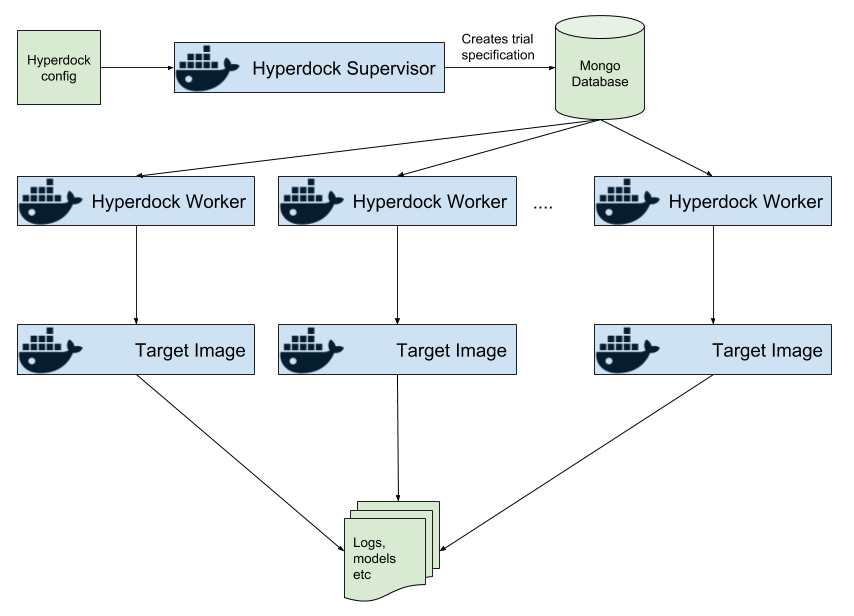
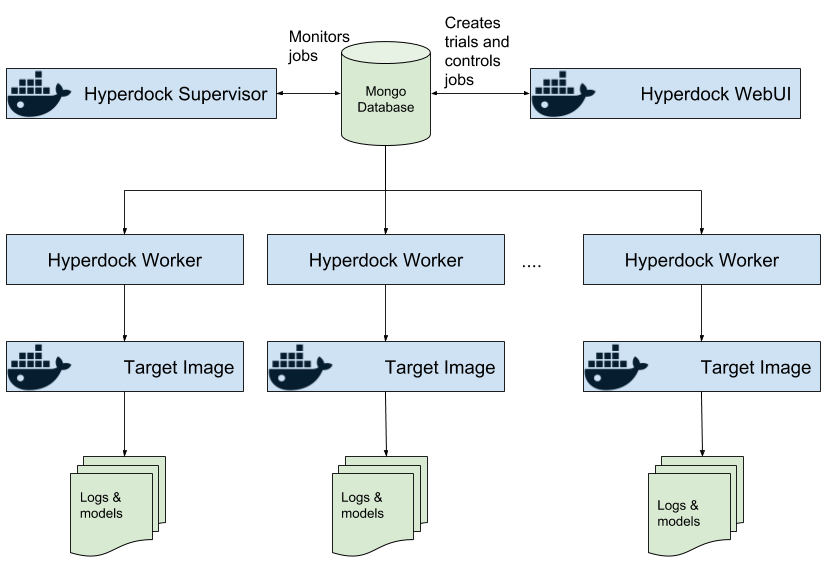
Update README and Docker images for new version #16 #12

diff --git a/README.md b/README.md
@@ -1,76 +1,107 @@
 # Hyperdock
 ![Hyperdock logo](extra/banner.png)
 
-*A simple framework for distributed hyperparameter optimization in Docker. All you need to do is make sure the software you want to optimize can be run in a Docker container.*
+*A simple framework for distributed hyperparameter optimization in Docker.*
 
 ## Philosophy
 
-The main idea of Hyperdock is universal hyperparameter optimization with minimal dependencies (i.e. Docker).
+The main idea of Hyperdock is universal hyperparameter optimization that can optimize a target written in any language or using any framework as long as it can be deployed in a Docker image.
 
 ![Hyperdock diagram](extra/diagram.png)
 
-The **Hyperdock supervisor** reads a configuration module that declares which parameters to optimize and their ranges.
-It then samples from the parameter space and creates a set of parameter combination to be evaluated. These trials are stored in a **mongo database**.
+From the **Hyperdock WebUI** the user can add **trials** that specify the **target image** and the hyperparameter space.
 
-The **Hyperdock workers** fetches parameter combinations from the database and then executes the **target image** with these parameters as to evaluate the combination. This is repeated a specified number of time and then **Hyperdock** returns the best parameter combination. Since the workers talk connect directly with the database they can be distributed as long as they can access any data needed by the **target image**.
+The **Hyperdock Supervisor** then reads the user-defined trial from the Mongo database and creates sets of parameter combination to be evaluated.
+These **jobs** are added to the **work queue**.
 
-The **target image** receives the parameters from the json file `/hyperdock/params.json`. Once the target image has evaluated the parameters it simply writes the loss to file `/hyperdock/loss.json`.
+The **Hyperdock Workers** dequeues jobs from the work queue and then evaluates the **target image** with these parameters. During this the Hyperdock Supervisor monitors the progress of the jobs and the status of the workers.
+
+The Hyperdock Supervisor, Workers and WebUI need not run on the same host. They only need to be able to access the same Mongo database and the workers need to have access to any data required by the target image.
+
+The **target image** receives the parameters from the json file `/hyperdock/params.json`. Once the target image has evaluated the parameters it simply writes the loss to file `/hyperdock/loss.json` with the option of storing important files to `/hyperdock/out`. Logs from the target image are periodically tailed from the workers to the WebUI.
 
 ## Running
 Setting up the Hyperdock system can seem a bit complicated but once it is up it quite easy to use.
 
-#### Mongo database
-To start a Mongo database you can use this simple Docker command or use any normal Mongo instance.
-```bash
-# Starts mongo db, add --bind_ip_all to listen on all interfaces.
-docker run --name hyperdock-mongo -p 27017:27017 -d mongo
-```
+You can either use the built Docker images for Hyperdock or run the parts directly on the host.
 
 #### Supervisor
-Then to start the **Hyperdock supervisor** run the following command:
+To start the Hyperdock Supervisor using the Docker image run the following command:
 ```bash
-# Supervisor
-docker run -it --rm \
-  -v /folderwithconfig/:/app/hyperdock/config:ro \
+docker run -it --rm --name hyperdock-supervisor \
   erikgartner/hyperdock-supervisor:latest \
-  --name trial1 \
-  --image erikgartner/hyperdock-test \
-  --config_module example \
-  --trials 5 \
-  --mongo mongo://172.17.0.1:27017/hyperdock/jobs
+  --mongo mongo://localhost:27017/hyperdock
 ```
 
-Options:
+Or run it on your host with Python 3.6 and install with pip:
+```bash
+pip install hyperdock
+hyperdock-supervisor --mongo mongo://localhost:27017/hyperdock
+```
 
-- `-v /folderwithconfig/:/app/hyperdock/config:ro` points to the folder containing the Hyperdock configuration modules
-- `--name trial1` sets the name of the trial. Each trial should have a unique name
-- `--image erikgartner/hyperdock-test` sets the _target image_
-- `--config_module example` sets which configuration module to use
-- ` --mongo mongo://172.17.0.1:27017/hyperdock/jobs` sets which Mongo database to connect to
-- `--trials 5` sets the maximum number of parameter combination to try out.
+##### Options:
+
+- ` --mongo mongo://localhost:27017/hyperdock` URL to the Mongo database
+
+For full arguments to the supervisor run: `hyperdock-supervisor --help`.
 
 #### Worker
-To start the **Hyperdock worker** run the following command.
+To start the Hyperdock Worker using the Docker image run the following command:
 ```bash
-# Worker
 docker run -it --rm -v /var/run/docker.sock:/var/run/docker.sock \
-  -v $(pwd)/results:/results -e \
-  HYPERDOCK_RESULT_DIR=$(pwd)/results \
-  -e HYPERDOCK_DATA_DIR=$(pwd)/data \
-  -e MONGO_URL=mongo://172.17.0.1:27017/hyperdock \
-  -e HYPERDOCK_RUNTIME="" \
-  -e HYPERDOCK_ENV="[]" \
-  erikgartner/hyperdock-worker:latest
+  -v $(pwd)/results:/results \
+  -v $(pwd)/data:/data:ro \
+  erikgartner/hyperdock-worker:latest \
+  --mongo mongo://localhost:27017/hyperdock
 ```
 
-Options:
+Or run it on your host with Python 3.6 and install with pip:
+```bash
+pip install hyperdock
+hyperdock-worker --mongo mongo://localhost:27017/hyperdock
+```
 
-- `-v $(pwd)/results:/results` sets folder to store the results from target image
-- `-e HYPERDOCK_RESULT_DIR=$(pwd)/results` should be the same as the above
-- `-e HYPERDOCK_DATA_DIR=$(pwd)/data ` the data directory for the target image
-- `-e MONGO_URL=mongo://172.17.0.1:27017/hyperdock` sets the URI to the Mongo database
-- `-e HYPERDOCK_RUNTIME=""` sets the runtime of the target image, e.g. `nvidia`
-- `-e HYPERDOCK_ENV="[]"` sets the environment variables for the target image in Docker argument list format
+##### Options:
+
+- `-v $(pwd)/results:/results` sets folder to store the results from target image to the host
+- `-v $(pwd)/data:/data:ro` sets folder to store the results from target image to the host
+- `-v /var/run/docker.sock:/var/run/docker.sock` gives the Docker image access to control the outer Docker daemon. This is crucial for worker to start new containers
+
+For full arguments to the worker run: `hyperdock-worker --help`.
+
+**Note:** That since the Hyperdock Worker needs to control Docker and access files on the host computer it might be easier to run it directly on the host.
+
+#### WebUI
+To start the Hyperdock WebUI using the Docker image run the following command:
+```bash
+docker run -d --rm --name hyperdock-webui --link hyperdock-mongo \
+  -e ROOT_URL=http://localhost \
+  -e MONGO_URL=mongodb://localhost:27017/hyperdock \
+  -p 3000:3000 \
+  erikgartner/hyperdock-webui:latest
+```
+
+Or run it on your host with Meteor:
+```bash
+# Setup Meteor
+curl https://install.meteor.com/ | sh # Install Meteor
+cd web/
+meteor npm install
+
+# Start WebUI
+export MONGO_URL=mongodb://localhost:27017/hyperdock
+meteor run
+```
+
+##### Options:
+
+- `-e MONGO_URL=mongodb://localhost:27017/hyperdock` sets the Mongo database
+- `-e PORT=3000` the port to listen to
+- `-p 3000:3000` publish the port to the host
+
+For full arguments to the worker run: `hyperdock-worker --help`.
+
+**Note:** That since the Hyperdock Worker needs to control Docker and access files on the host computer it might be easier to run it directly on the host.
 
 #### Target Image
 For the **Target Image** the following volumes are mounted:
@@ -83,25 +114,18 @@ For the **Target Image** the following volumes are mounted:
 
 See the [Dockfile template](docker/Dockerfile.template) for an example.
 
-#### Hyperdock Configuration Module
-The Hyperdock configuration module is a simple Python 3 module that exposes a
-`SPACE` variable containing a [Hyperopt](http://hyperopt.github.io/hyperopt/) parameter space.
-
-See [example.py](hyperdock/config/example.py) for an example.
+#### Mongo database
+To start a Mongo database you can use this simple Docker command or use any normal Mongo instance.
+```bash
+# Starts mongo db, add --bind_ip_all to listen on all interfaces.
+docker run --name hyperdock-mongo -p 27017:27017 -d mongo
+```
 
 ## Building
+If you want to develop Hyperdock it is recommended that you use [Pipenv](https://docs.pipenv.org/) to manage the Python version the package dependencies.
 
-The latest version should be available from Docker Hub just use the pull command:
-```bash
-docker pull erikgartner/hyperdock-worker:latest
-docker pull erikgartner/hyperdock-supervisor:latest
-```
+The WebUI is built using [Meteor](https://www.meteor.com/) which needs to be installed prior to development.
 
-However if you like you can also build the images yourself:
-```bash
-docker build -t erikgartner/hyperdock-worker:latest -f docker/Dockerfile.worker .
-docker build -t erikgartner/hyperdock-supervisor:latest -f docker/Dockerfile.supervisor .
-```
 
 ## License
 Copyright 2018 Erik Gärtner
